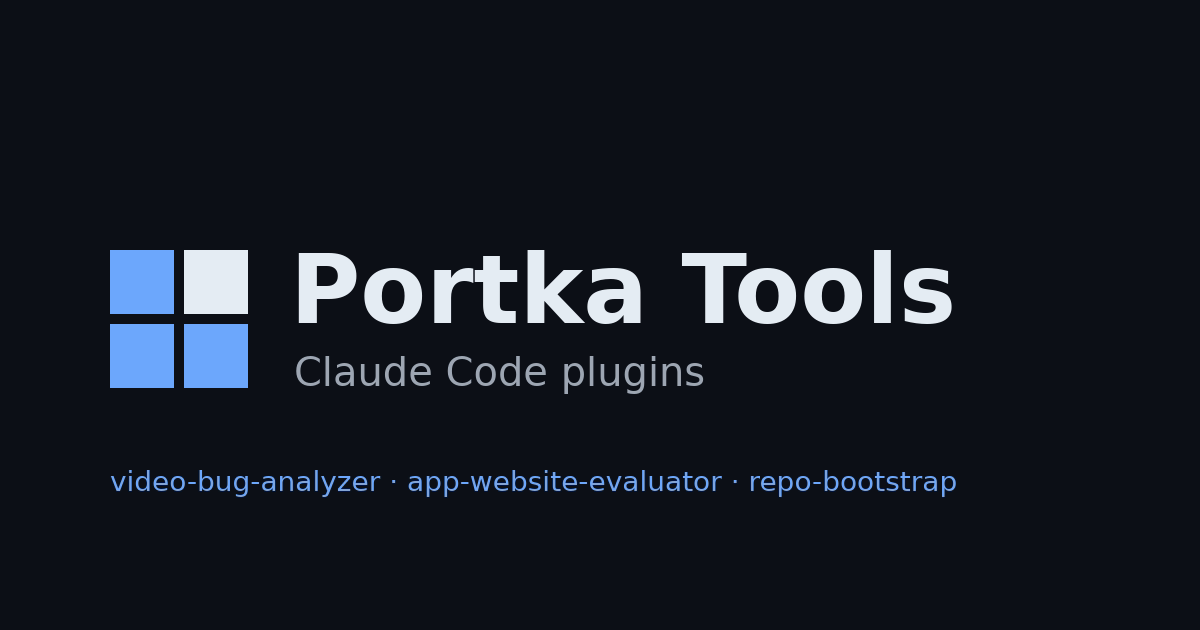
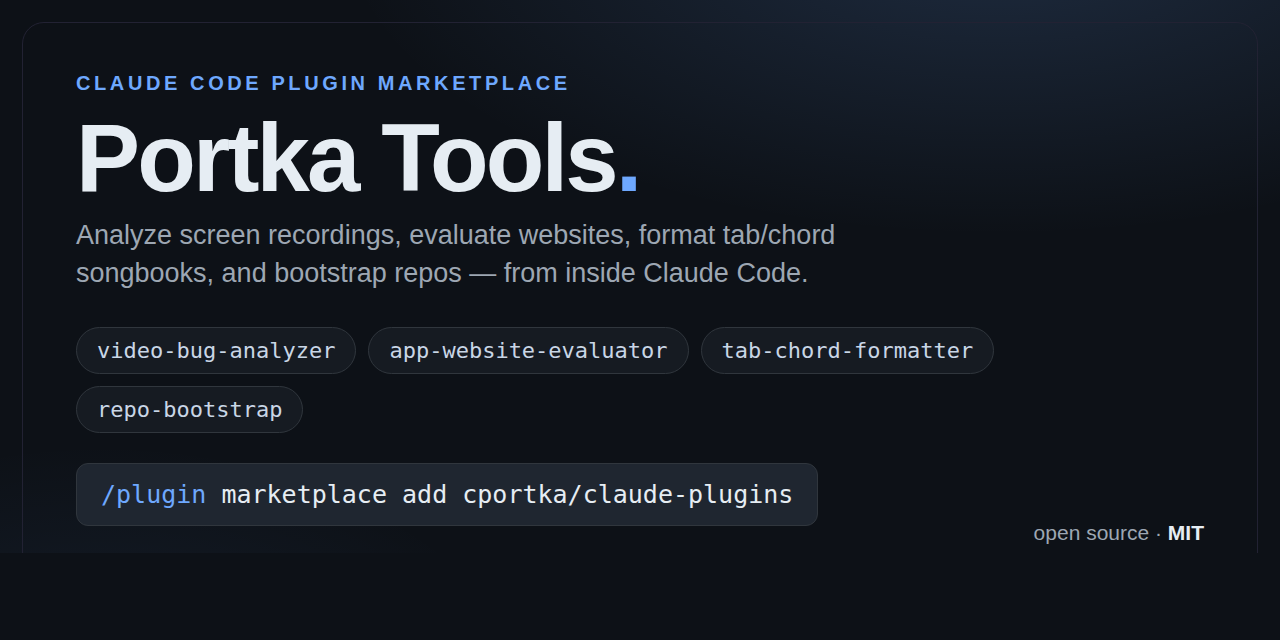
GH Pages: add tab-chord-formatter + refresh copy/social card; run-tests bash 4+ preflight (#75)
Landing page (index.html):
- Add the missing tab-chord-formatter plugin card + its /plugin install line (all four
  plugins now listed; the grid reads as a clean 2x2).
- Refresh the video-bug-analyzer card (stutter/freeze-gap timing, pacing, motion, the new
  swirl-vs-suck --flow, subject extent) and the app-website-evaluator card (the
  standardized 0-100 + letter-grade scorecard, coverage-honest overall, --json, JSON-LD
  validation). Update the meta/OG/Twitter/JSON-LD descriptions to include all four.

Social card (assets/og.png):
- Regenerated at 1280x640 (GitHub social-preview + OG/Twitter) with an on-brand dark card:
  the four plugin names, the add command, MIT. Replaces the older 3-plugin 1200x630 image.

Test suite:
- Add a bash 4+ preflight to tests/run-tests.sh: macOS still ships bash 3.2 (2007), which
  lacks mapfile and safe empty-array expansion under `set -u`, so the suite produced a wall
  of confusing failures there. It now prints ONE clear message ("needs bash 4+; brew install
  bash") and exits cleanly instead. Does not affect Linux/web (bash 5) or publishing.

Tooling/docs only - no plugin changed, no version bump. Dogfood: evaluate-site.sh --dir .
scores 100/100 (A*, 0 FAILs); suite 198 passed / 0 failed; shellcheck clean.

Claude-Session: https://claude.ai/code/session_015M7QWFzt9NnWmSmNQXj1mM

diff --git a/index.html b/index.html
@@ -4,19 +4,19 @@
   <meta charset="utf-8" />
   <meta name="viewport" content="width=device-width, initial-scale=1" />
   <title>Portka Tools — Claude Code plugins</title>
-  <meta name="description" content="Portka Tools: a Claude Code plugin marketplace by Chris Portka. Analyze screen recordings (video-bug-analyzer), evaluate websites/apps (app-website-evaluator), and bootstrap repos (repo-bootstrap). Add it once, use it everywhere." />
+  <meta name="description" content="Portka Tools: a Claude Code plugin marketplace by Chris Portka. Analyze screen recordings (video-bug-analyzer), evaluate websites/apps with a scorecard (app-website-evaluator), format guitar tabs into a PDF songbook (tab-chord-formatter), and bootstrap repos (repo-bootstrap). Add it once, use it everywhere." />
   <link rel="canonical" href="https://cportka.github.io/claude-plugins/" />
   <meta name="theme-color" content="#0d1117" />
   <link rel="icon" href="favicon.svg" type="image/svg+xml" />
   <link rel="apple-touch-icon" href="assets/apple-touch-icon.png" />
   <meta property="og:title" content="Portka Tools — Claude Code plugins" />
-  <meta property="og:description" content="A Claude Code plugin marketplace: analyze screen recordings, evaluate websites/apps, bootstrap repos. Add it once; use it in the CLI and in web sessions." />
+  <meta property="og:description" content="A Claude Code plugin marketplace: analyze screen recordings, evaluate websites/apps, format tab/chord songbooks, bootstrap repos. Add it once; use it in the CLI and in web sessions." />
   <meta property="og:type" content="website" />
   <meta property="og:url" content="https://cportka.github.io/claude-plugins/" />
   <meta property="og:image" content="https://cportka.github.io/claude-plugins/assets/og.png" />
   <meta name="twitter:card" content="summary_large_image" />
   <meta name="twitter:title" content="Portka Tools — Claude Code plugins" />
-  <meta name="twitter:description" content="A Claude Code plugin marketplace: analyze screen recordings, evaluate websites/apps, bootstrap repos." />
+  <meta name="twitter:description" content="A Claude Code plugin marketplace: analyze screen recordings, evaluate websites/apps, format tab/chord songbooks, bootstrap repos." />
   <meta name="twitter:image" content="https://cportka.github.io/claude-plugins/assets/og.png" />
   <script type="application/ld+json">
   {
@@ -24,7 +24,7 @@
     "@type": "WebSite",
     "name": "Portka Tools",
     "url": "https://cportka.github.io/claude-plugins/",
-    "description": "A Claude Code plugin marketplace: analyze screen recordings, evaluate websites/apps, bootstrap repos.",
+    "description": "A Claude Code plugin marketplace: analyze screen recordings, evaluate websites/apps, format tab/chord songbooks, bootstrap repos.",
     "author": { "@type": "Person", "name": "Chris Portka" },
     "license": "https://opensource.org/licenses/MIT"
   }
@@ -98,19 +98,21 @@
         <h3><code>video-bug-analyzer</code></h3>
         <p>
           Give Claude a screen recording and roughly when something happens; it extracts frames
-          (contact sheet, scene cuts, per-timestamp zoom, before/after strips) and reasons over
-          them. Plus analysis modes: black-screen detection, ROI&nbsp;OCR value tracking, feature
-          measurement, capture probing, and dominant-colour palettes. Needs <code>ffmpeg</code>.
+          (contact sheet, scene cuts, per-timestamp zoom, before/after strips, ROI time-stack) and
+          reasons over them. Plus quantitative modes: stutter &amp; freeze-gap timing, frame-pacing
+          jitter, motion and <strong>swirl-vs-suck flow</strong>, subject extent, black-screen
+          detection, ROI&nbsp;OCR, feature measurement, and palettes. Needs <code>ffmpeg</code>.
         </p>
         <p class="links"><a href="https://github.com/cportka/claude-plugins/tree/main/plugins/video-bug-analyzer">Details &rarr;</a></p>
       </div>
       <div class="card">
         <h3><code>app-website-evaluator</code></h3>
         <p>
-          Audit an app or website and get a prioritized, evidence-backed report — SEO &amp;
-          crawlability, AI-readiness (<code>llms.txt</code>), social/sharing assets, security,
-          performance, and growth (which communities to join/submit to, PR wins) — tailored to the
-          site's type and community.
+          Audit an app or website and get a prioritized, evidence-backed report with a standardized
+          <strong>scorecard</strong> — each dimension 0&ndash;100 + a letter grade, a coverage-honest
+          overall, and optional <code>--json</code>. Covers SEO &amp; crawlability, AI-readiness
+          (<code>llms.txt</code> + JSON-LD validation), social/sharing, security, performance, and
+          growth — tailored to the site's type and community.
         </p>
         <p class="links"><a href="https://github.com/cportka/claude-plugins/tree/main/plugins/app-website-evaluator">Details &rarr;</a></p>
       </div>
@@ -125,6 +127,17 @@
         </p>
         <p class="links"><a href="https://github.com/cportka/claude-plugins/tree/main/plugins/repo-bootstrap">Details &rarr;</a></p>
       </div>
+      <div class="card">
+        <h3><code>tab-chord-formatter</code></h3>
+        <p>
+          Turn a messy guitar tab / chord sheet into a clean, readable layout for screen — or render
+          a consistent monospace <strong>PDF songbook</strong> (one or many songs, a target
+          songs-per-page). Standardized <code>[Section]</code> labels, chords aligned over the right
+          lyrics, a tidy metadata header, and well-formed 6-line ASCII tab. Needs <code>python3</code>
+          (plus headless Chromium for PDF).
+        </p>
+        <p class="links"><a href="https://github.com/cportka/claude-plugins/tree/main/plugins/tab-chord-formatter">Details &rarr;</a></p>
+      </div>
     </div>
 
     <h2>Add it</h2>
@@ -135,6 +148,7 @@
 <span class="cmt"># install a plugin</span>
 /plugin install video-bug-analyzer@portka-tools
 /plugin install app-website-evaluator@portka-tools
+/plugin install tab-chord-formatter@portka-tools
 /plugin install repo-bootstrap@portka-tools</code></pre>
     <p>
       For a specific repo or a fresh web session, commit a <code>.claude/settings.json</code>